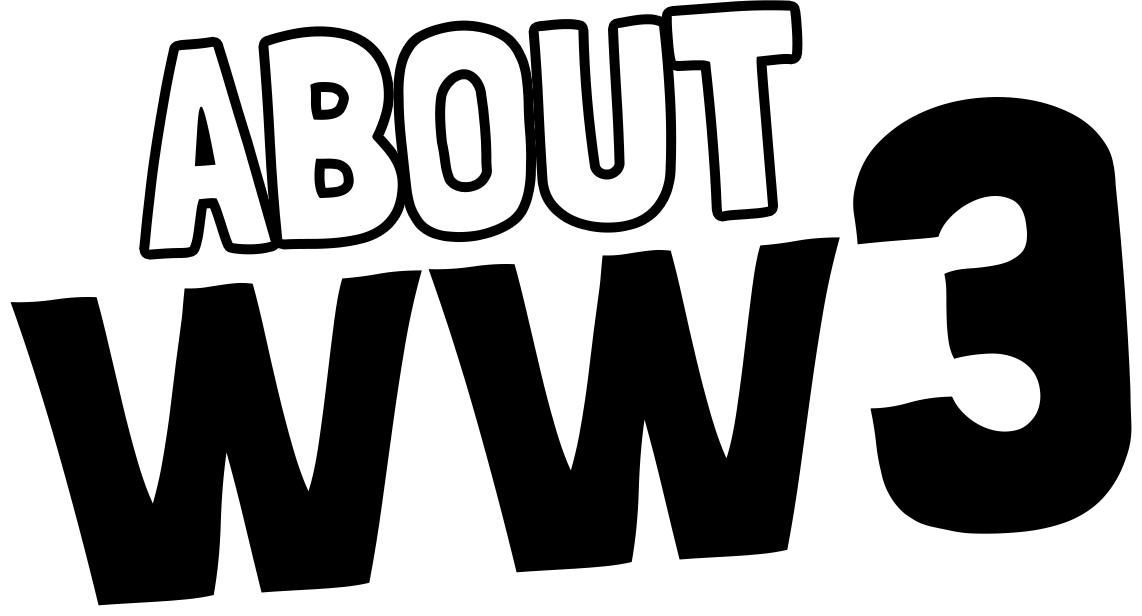
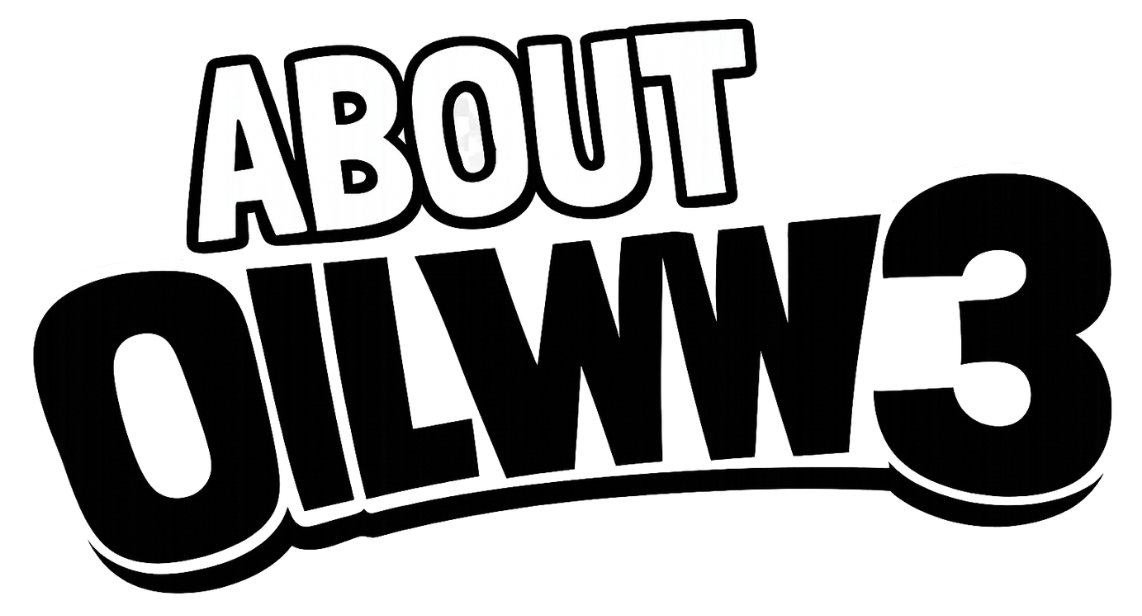
update

diff --git a/index.html b/index.html
@@ -32,7 +32,7 @@
       src="/_next/static/chunks/app/layout-5e1ce09d7384bf2c.js"
       async=""
     ></script>
-    <title>$WW3 on ETH</title>
+    <title>$OILWW3 on ETH</title>
     <meta name="description" content="The Natural VIX for Crypto" />
     <link rel="icon" href="/assets/logo.png" />
     <script
@@ -49,7 +49,7 @@
         <nav class="flex justify-center items-center space-x-8 p-6 text-white">
           <div class="flex h-8 space-x-4">
             <a
-              href="https://t.me/Wwarthreebnb"
+              href="https://t.me/OilWorldWar3"
               class="bg-gray-900 w-8 flex items-center justify-center rounded"
               ><svg
                 stroke="currentColor"
@@ -64,7 +64,7 @@
                   d="m20.665 3.717-17.73 6.837c-1.21.486-1.203 1.161-.222 1.462l4.552 1.42 10.532-6.645c.498-.303.953-.14.579.192l-8.533 7.701h-.002l.002.001-.314 4.692c.46 0 .663-.211.921-.46l2.211-2.15 4.599 3.397c.848.467 1.457.227 1.668-.785l3.019-14.228c.309-1.239-.473-1.8-1.282-1.434z"
                 ></path></svg></a
             ><a
-              href="https://x.com/Wwarthreebnb"
+              href="https://x.com/OilWorldWar3"
               class="bg-gray-900 w-8 flex items-center justify-center rounded"
               ><svg
                 stroke="currentColor"
@@ -146,9 +146,9 @@
             <p
               class="text-center text-white text-stroke-black text-2xl md:text-3xl lg:text-5xl font-beach-vibes"
             >
-              $WW3 is your hedge against war and global instability, acting as a
+              $OILWW3 is your hedge against war and global instability, acting as a
               volatility indicator during crises. As markets react to
-              geopolitical turmoil, $WW3 thrives. Rooted in the meme coin
+              geopolitical turmoil, $OILWW3 thrives. Rooted in the meme coin
               culture, it serves as both a speculative asset and a reflection of
               global chaos, driven by its community.
             </p>
@@ -213,13 +213,13 @@
     <script>
       self.__next_f.push([
         1,
-        '0:[[["$","link","0",{"rel":"stylesheet","href":"/_next/static/css/0fe9b821c6cfa25f.css","precedence":"next","crossOrigin":"$undefined"}]],["$","$L2",null,{"buildId":"9IPRN5Wy0tTVs-Iw_-Ldy","assetPrefix":"","initialCanonicalUrl":"/","initialTree":["",{"children":["__PAGE__",{}]},"$undefined","$undefined",true],"initialSeedData":["",{"children":["__PAGE__",{},[["$L3",["$","div",null,{"className":"min-h-screen bg-cover bg-top bg-no-repeat mx-auto","style":{"backgroundImage":"url(\'/background.jpg\')"},"children":["$","div",null,{"className":"max-w-screen-xl mx-auto","children":[["$","nav",null,{"className":"flex justify-center items-center space-x-8 p-6 text-white","children":["$","div",null,{"className":"flex h-8 space-x-4","children":[["$","a",null,{"href":"https://t.me/Wwarthreebnb","className":"bg-gray-900 w-8 flex items-center justify-center rounded","children":["$","svg",null,{"stroke":"currentColor","fill":"currentColor","strokeWidth":"0","viewBox":"0 0 24 24","children":["$undefined",[["$","path","0",{"d":"m20.665 3.717-17.73 6.837c-1.21.486-1.203 1.161-.222 1.462l4.552 1.42 10.532-6.645c.498-.303.953-.14.579.192l-8.533 7.701h-.002l.002.001-.314 4.692c.46 0 .663-.211.921-.46l2.211-2.15 4.599 3.397c.848.467 1.457.227 1.668-.785l3.019-14.228c.309-1.239-.473-1.8-1.282-1.434z","children":[]}]]],"className":"$undefined","style":{"color":"$undefined"},"height":"18","width":"18","xmlns":"http://www.w3.org/2000/svg"}]}],["$","a",null,{"href":"https://x.com/Wwarthreebnb","className":"bg-gray-900 w-8 flex items-center justify-center rounded","children":["$","svg",null,{"stroke":"currentColor","fill":"currentColor","strokeWidth":"0","viewBox":"0 0 24 24","children":["$undefined",[["$","path","0",{"d":"M8 2H1L9.26086 13.0145L1.44995 21.9999H4.09998L10.4883 14.651L16 22H23L14.3917 10.5223L21.8001 2H19.1501L13.1643 8.88578L8 2ZM17 20L5 4H7L19 20H17Z","children":[]}]]],"className":"$undefined","style":{"color":"$undefined"},"height":"18","width":"18","xmlns":"http://www.w3.org/2000/svg"}]}],["$","a",null,{"href":"https://dexscreener.com/bsc/0xcomingsoon","className":"bg-gray-900 w-8 flex items-center justify-center rounded","children":["$","svg",null,{"xmlns":"http://www.w3.org/2000/svg","width":"18","height":"18","fill":"#fff","fill-rule":"evenodd","viewBox":"0 0 252 300","focusable":"false","children":[["$","path",null,{"d":"$4"}],["$","path",null,{"d":"M197.167 75.016c6.436-6.495 12.107-13.684 16.667-20.099l2.316 4.359c7.456 14.917 11.33 29.774 11.33 46.494l-.016 26.532.14 13.754c.54 33.766 7.846 67.929 24.396 99.193l-34.627-27.922-24.501 39.759-25.74-24.231L126 299.604l-41.132-66.748-25.739 24.231-24.501-39.759L0 245.25c16.55-31.264 23.856-65.427 24.397-99.193l.14-13.754-.016-26.532c0-16.721 3.873-31.578 11.331-46.494l2.315-4.359c4.56 6.415 10.23 13.603 16.667 20.099l-2.01 4.175c-3.905 8.109-5.198 17.176-2.156 25.799 1.961 5.554 5.54 10.317 10.154 13.953 4.48 3.531 9.782 5.911 15.333 7.161 3.616.814 7.3 1.149 10.96 1.035-.854 4.841-1.227 9.862-1.251 14.978L53.2 160.984l25.206 14.129a41.926 41.926 0 015.734 3.869c20.781 18.658 33.275 73.855 41.861 100.816 8.587-26.961 21.08-82.158 41.862-100.816a41.865 41.865 0 015.734-3.869l25.206-14.129-32.665-18.866c-.024-5.116-.397-10.137-1.251-14.978 3.66.114 7.344-.221 10.96-1.035 5.551-1.25 10.854-3.63 15.333-7.161 4.613-3.636 8.193-8.399 10.153-13.953 3.043-8.623 1.749-17.689-2.155-25.799l-2.01-4.175z"}]]}]}],["$","a",null,{"href":"https://dextools.io/app/bnb/pair-explorer/0xcomingsoon","className":"bg-gray-900 w-8 flex items-center justify-center rounded","children":["$","svg",null,{"fill":"none","height":"18","viewBox":"0 -.058 754.779 867.058","width":"18","xmlns":"http://www.w3.org/2000/svg","children":["$","path",null,{"clip-rule":"evenodd","d":"$5","fill":"#ffffff","fill-rule":"evenodd"}]}]}]]}]}],["$","section",null,{"className":"flex justify-center mb-[125vw] sm:mb-[112vw] md:mb-[110vw] lg:mb-[105vw]","children":["$","div",null,{"className":"flex items-center justify-center h-[35vw] w-[70vw]","children":["$","img",null,{"src":"/world-war-3.png","alt":"World War 3","className":"h-full w-full object-contain"}]}]}],["$","section",null,{"className":"flex items-center justify-center mb-[25vw] sm:mb-[30vw]","children":["$","div",null,{"className":"bg-yellow-300 bg-opacity-60 py-4 rounded-2xl -rotate-6 h-[25vw] w-[80vw] lg:w-[65vw]","children":["$","img",null,{"src":"/about-ww3.png","alt":"About WW3","className":"h-full w-full object-contain"}]}]}],["$","section",null,{"className":"flex items-center justify-center mb-[150vw]","children":["$","div",null,{"className":"bg-white bg-opacity-50 p-6 rounded-lg shadow-lg rotate-3 w-[80vw] lg:w-[50vw]","children":["$","p",null,{"className":"text-center text-white text-stroke-black text-2xl md:text-3xl lg:text-5xl font-beach-vibes","children":"$$WW3 is your hedge against war and global instability, acting as a volatility indicator during crises. As markets react to geopolitical turmoil, $WW3 thrives. Rooted in the meme coin culture, it serves as both a speculative asset and a reflection of global chaos, driven by its community."}]}]}],["$","section",null,{"className":"flex justify-center items-center mb-[65vw]","children":["$","div",null,{"className":"bg-white bg-opacity-50 p-6 rounded-lg shadow-lg max-w-lg -rotate-3","children":[["$","p",null,{"className":"text-center text-white text-stroke-black text-4xl lg:text-7xl font-beach-vibes","children":"TOKENOMICS"}],["$","p",null,{"className":"text-center text-white text-stroke-black text-3xl lg:text-5xl font-beach-vibes","children":"Current Supply: 1,000,000,000"}]]}]}],["$","footer",null,{"className":"pb-10 mx-12","children":["$","div",null,{"id":"tweetbody","className":"mx-auto w-full","children":["$","p",null,{"className":"text-center text-white text-1xl lg:text-3xl font-beach-vibes","children":"CA: 0xcomingsoon"}]}]}]]}]}]],null],null]},[["$","html",null,{"lang":"en","children":["$","body",null,{"children":[["$","$L6",null,{"parallelRouterKey":"children","segmentPath":["children"],"error":"$undefined","errorStyles":"$undefined","errorScripts":"$undefined","template":["$","$L7",null,{}],"templateStyles":"$undefined","templateScripts":"$undefined","notFound":[["$","title",null,{"children":"404: This page could not be found."}],["$","div",null,{"style":{"fontFamily":"system-ui,\\"Segoe UI\\",Roboto,Helvetica,Arial,sans-serif,\\"Apple Color Emoji\\",\\"Segoe UI Emoji\\"","height":"100vh","textAlign":"center","display":"flex","flexDirection":"column","alignItems":"center","justifyContent":"center"},"children":["$","div",null,{"children":[["$","style",null,{"dangerouslySetInnerHTML":{"__html":"body{color:#000;background:#fff;margin:0}.next-error-h1{border-right:1px solid rgba(0,0,0,.3)}@media (prefers-color-scheme:dark){body{color:#fff;background:#000}.next-error-h1{border-right:1px solid rgba(255,255,255,.3)}}"}}],["$","h1",null,{"className":"next-error-h1","style":{"display":"inline-block","margin":"0 20px 0 0","padding":"0 23px 0 0","fontSize":24,"fontWeight":500,"verticalAlign":"top","lineHeight":"49px"},"children":"404"}],["$","div",null,{"style":{"display":"inline-block"},"children":["$","h2",null,{"style":{"fontSize":14,"fontWeight":400,"lineHeight":"49px","margin":0},"children":"This page could not be found."}]}]]}]}]],"notFoundStyles":[],"styles":null}],["$","$L8",null,{}]]}]}],null],null],"couldBeIntercepted":false,"initialHead":[null,"$L9"],"globalErrorComponent":"$a","missingSlots":"$Wb"}]]\n',
+        '0:[[["$","link","0",{"rel":"stylesheet","href":"/_next/static/css/0fe9b821c6cfa25f.css","precedence":"next","crossOrigin":"$undefined"}]],["$","$L2",null,{"buildId":"9IPRN5Wy0tTVs-Iw_-Ldy","assetPrefix":"","initialCanonicalUrl":"/","initialTree":["",{"children":["__PAGE__",{}]},"$undefined","$undefined",true],"initialSeedData":["",{"children":["__PAGE__",{},[["$L3",["$","div",null,{"className":"min-h-screen bg-cover bg-top bg-no-repeat mx-auto","style":{"backgroundImage":"url(\'/background.jpg\')"},"children":["$","div",null,{"className":"max-w-screen-xl mx-auto","children":[["$","nav",null,{"className":"flex justify-center items-center space-x-8 p-6 text-white","children":["$","div",null,{"className":"flex h-8 space-x-4","children":[["$","a",null,{"href":"https://t.me/OilWorldWar3","className":"bg-gray-900 w-8 flex items-center justify-center rounded","children":["$","svg",null,{"stroke":"currentColor","fill":"currentColor","strokeWidth":"0","viewBox":"0 0 24 24","children":["$undefined",[["$","path","0",{"d":"m20.665 3.717-17.73 6.837c-1.21.486-1.203 1.161-.222 1.462l4.552 1.42 10.532-6.645c.498-.303.953-.14.579.192l-8.533 7.701h-.002l.002.001-.314 4.692c.46 0 .663-.211.921-.46l2.211-2.15 4.599 3.397c.848.467 1.457.227 1.668-.785l3.019-14.228c.309-1.239-.473-1.8-1.282-1.434z","children":[]}]]],"className":"$undefined","style":{"color":"$undefined"},"height":"18","width":"18","xmlns":"http://www.w3.org/2000/svg"}]}],["$","a",null,{"href":"https://x.com/OilWorldWar3","className":"bg-gray-900 w-8 flex items-center justify-center rounded","children":["$","svg",null,{"stroke":"currentColor","fill":"currentColor","strokeWidth":"0","viewBox":"0 0 24 24","children":["$undefined",[["$","path","0",{"d":"M8 2H1L9.26086 13.0145L1.44995 21.9999H4.09998L10.4883 14.651L16 22H23L14.3917 10.5223L21.8001 2H19.1501L13.1643 8.88578L8 2ZM17 20L5 4H7L19 20H17Z","children":[]}]]],"className":"$undefined","style":{"color":"$undefined"},"height":"18","width":"18","xmlns":"http://www.w3.org/2000/svg"}]}],["$","a",null,{"href":"https://dexscreener.com/bsc/0xcomingsoon","className":"bg-gray-900 w-8 flex items-center justify-center rounded","children":["$","svg",null,{"xmlns":"http://www.w3.org/2000/svg","width":"18","height":"18","fill":"#fff","fill-rule":"evenodd","viewBox":"0 0 252 300","focusable":"false","children":[["$","path",null,{"d":"$4"}],["$","path",null,{"d":"M197.167 75.016c6.436-6.495 12.107-13.684 16.667-20.099l2.316 4.359c7.456 14.917 11.33 29.774 11.33 46.494l-.016 26.532.14 13.754c.54 33.766 7.846 67.929 24.396 99.193l-34.627-27.922-24.501 39.759-25.74-24.231L126 299.604l-41.132-66.748-25.739 24.231-24.501-39.759L0 245.25c16.55-31.264 23.856-65.427 24.397-99.193l.14-13.754-.016-26.532c0-16.721 3.873-31.578 11.331-46.494l2.315-4.359c4.56 6.415 10.23 13.603 16.667 20.099l-2.01 4.175c-3.905 8.109-5.198 17.176-2.156 25.799 1.961 5.554 5.54 10.317 10.154 13.953 4.48 3.531 9.782 5.911 15.333 7.161 3.616.814 7.3 1.149 10.96 1.035-.854 4.841-1.227 9.862-1.251 14.978L53.2 160.984l25.206 14.129a41.926 41.926 0 015.734 3.869c20.781 18.658 33.275 73.855 41.861 100.816 8.587-26.961 21.08-82.158 41.862-100.816a41.865 41.865 0 015.734-3.869l25.206-14.129-32.665-18.866c-.024-5.116-.397-10.137-1.251-14.978 3.66.114 7.344-.221 10.96-1.035 5.551-1.25 10.854-3.63 15.333-7.161 4.613-3.636 8.193-8.399 10.153-13.953 3.043-8.623 1.749-17.689-2.155-25.799l-2.01-4.175z"}]]}]}],["$","a",null,{"href":"https://dextools.io/app/bnb/pair-explorer/0xcomingsoon","className":"bg-gray-900 w-8 flex items-center justify-center rounded","children":["$","svg",null,{"fill":"none","height":"18","viewBox":"0 -.058 754.779 867.058","width":"18","xmlns":"http://www.w3.org/2000/svg","children":["$","path",null,{"clip-rule":"evenodd","d":"$5","fill":"#ffffff","fill-rule":"evenodd"}]}]}]]}]}],["$","section",null,{"className":"flex justify-center mb-[125vw] sm:mb-[112vw] md:mb-[110vw] lg:mb-[105vw]","children":["$","div",null,{"className":"flex items-center justify-center h-[35vw] w-[70vw]","children":["$","img",null,{"src":"/world-war-3.png","alt":"World War 3","className":"h-full w-full object-contain"}]}]}],["$","section",null,{"className":"flex items-center justify-center mb-[25vw] sm:mb-[30vw]","children":["$","div",null,{"className":"bg-yellow-300 bg-opacity-60 py-4 rounded-2xl -rotate-6 h-[25vw] w-[80vw] lg:w-[65vw]","children":["$","img",null,{"src":"/about-ww3.png","alt":"About WW3","className":"h-full w-full object-contain"}]}]}],["$","section",null,{"className":"flex items-center justify-center mb-[150vw]","children":["$","div",null,{"className":"bg-white bg-opacity-50 p-6 rounded-lg shadow-lg rotate-3 w-[80vw] lg:w-[50vw]","children":["$","p",null,{"className":"text-center text-white text-stroke-black text-2xl md:text-3xl lg:text-5xl font-beach-vibes","children":"$$OILWW3 is your hedge against war and global instability, acting as a volatility indicator during crises. As markets react to geopolitical turmoil, $OILWW3 thrives. Rooted in the meme coin culture, it serves as both a speculative asset and a reflection of global chaos, driven by its community."}]}]}],["$","section",null,{"className":"flex justify-center items-center mb-[65vw]","children":["$","div",null,{"className":"bg-white bg-opacity-50 p-6 rounded-lg shadow-lg max-w-lg -rotate-3","children":[["$","p",null,{"className":"text-center text-white text-stroke-black text-4xl lg:text-7xl font-beach-vibes","children":"TOKENOMICS"}],["$","p",null,{"className":"text-center text-white text-stroke-black text-3xl lg:text-5xl font-beach-vibes","children":"Current Supply: 1,000,000,000"}]]}]}],["$","footer",null,{"className":"pb-10 mx-12","children":["$","div",null,{"id":"tweetbody","className":"mx-auto w-full","children":["$","p",null,{"className":"text-center text-white text-1xl lg:text-3xl font-beach-vibes","children":"CA: 0xcomingsoon"}]}]}]]}]}]],null],null]},[["$","html",null,{"lang":"en","children":["$","body",null,{"children":[["$","$L6",null,{"parallelRouterKey":"children","segmentPath":["children"],"error":"$undefined","errorStyles":"$undefined","errorScripts":"$undefined","template":["$","$L7",null,{}],"templateStyles":"$undefined","templateScripts":"$undefined","notFound":[["$","title",null,{"children":"404: This page could not be found."}],["$","div",null,{"style":{"fontFamily":"system-ui,\\"Segoe UI\\",Roboto,Helvetica,Arial,sans-serif,\\"Apple Color Emoji\\",\\"Segoe UI Emoji\\"","height":"100vh","textAlign":"center","display":"flex","flexDirection":"column","alignItems":"center","justifyContent":"center"},"children":["$","div",null,{"children":[["$","style",null,{"dangerouslySetInnerHTML":{"__html":"body{color:#000;background:#fff;margin:0}.next-error-h1{border-right:1px solid rgba(0,0,0,.3)}@media (prefers-color-scheme:dark){body{color:#fff;background:#000}.next-error-h1{border-right:1px solid rgba(255,255,255,.3)}}"}}],["$","h1",null,{"className":"next-error-h1","style":{"display":"inline-block","margin":"0 20px 0 0","padding":"0 23px 0 0","fontSize":24,"fontWeight":500,"verticalAlign":"top","lineHeight":"49px"},"children":"404"}],["$","div",null,{"style":{"display":"inline-block"},"children":["$","h2",null,{"style":{"fontSize":14,"fontWeight":400,"lineHeight":"49px","margin":0},"children":"This page could not be found."}]}]]}]}]],"notFoundStyles":[],"styles":null}],["$","$L8",null,{}]]}]}],null],null],"couldBeIntercepted":false,"initialHead":[null,"$L9"],"globalErrorComponent":"$a","missingSlots":"$Wb"}]]\n',
       ]);
     </script>
     <script>
       self.__next_f.push([
         1,
-        '9:[["$","meta","0",{"name":"viewport","content":"width=device-width, initial-scale=1"}],["$","meta","1",{"charSet":"utf-8"}],["$","title","2",{"children":"$$WW3 on ETH"}],["$","meta","3",{"name":"description","content":"The Natural VIX for Crypto"}],["$","link","4",{"rel":"icon","href":"/assets/logo.png"}]]\n3:null\n',
+        '9:[["$","meta","0",{"name":"viewport","content":"width=device-width, initial-scale=1"}],["$","meta","1",{"charSet":"utf-8"}],["$","title","2",{"children":"$$OILWW3 on ETH"}],["$","meta","3",{"name":"description","content":"The Natural VIX for Crypto"}],["$","link","4",{"rel":"icon","href":"/assets/logo.png"}]]\n3:null\n',
       ]);
     </script>
     <style>
